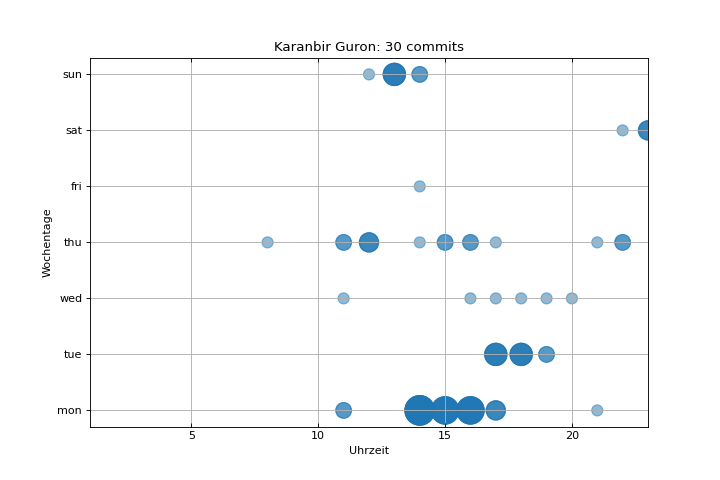
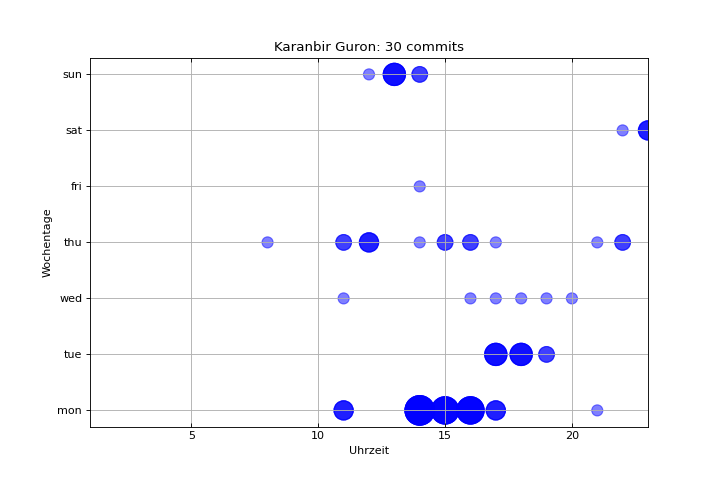
UE03: Plot abgenommen

diff --git a/UE03_Plot/Main.py b/UE03_Plot/Main.py
@@ -1,7 +1,6 @@
-import matplotlib.pyplot as plt
-import numpy
 import math
 
+import matplotlib.pyplot as plt
 import numpy as np
 
 CNT = 1024
@@ -12,6 +11,10 @@ C = [math.cos(x) for x in X]
 S = [math.sin(x) for x in X]
 
 def plot():
+    """
+    Drawing PI Plot
+    :return: plot
+    """
     plt.figure(figsize=(10,6), dpi=80)
     plt.xlim(min(X) * 1.1, max(X) * 1.1)
     plt.ylim(min(C) * 1.1, max(C) * 1.1)
@@ -21,7 +24,7 @@ def plot():
                [r'$-1$', r'$0$', r'$+1$'])
 
     # Aufgabe 1 Linienart und Farbe
-    plt.plot(X,C, color="brown", linewidth=2.5, linestyle='-.', label="cosine")
+    plt.plot(X,C, color="gold", linewidth=2.5, linestyle='-.', label="cosine")
     plt.plot(X,S, color="green", linewidth=2.5, linestyle='-.', label="sine")
 
 
@@ -60,6 +63,21 @@ def plot():
                  xytext=(+10, +50), textcoords='offset points', fontsize=16,
                  arrowprops=dict(arrowstyle="->", connectionstyle="arc3,rad=.2"))
 
+    t_34m = math.radians(-45)
+    plt.plot([t_34m, t_34m], [0, math.cos(t_34m)], color='red', linewidth=2.5, linestyle="--")
+    plt.scatter([t_34m, ], [math.cos(t_34m), ], 50, color='red')
+    plt.annotate(r'$\sin(45°)=\frac{\sqrt{2}}{2}$',
+                 xy=(t_34m, math.sin(t_34m)), xycoords='data',
+                 xytext=(+10, +50), textcoords='offset points', fontsize=16,
+                 arrowprops=dict(arrowstyle="->", connectionstyle="arc3,rad=.2"))
+
+    plt.plot([t_34m, t_34m], [0, math.sin(t_34m)], color='red', linewidth=2.5, linestyle="--")
+    plt.scatter([t_34m, ], [math.cos(t_34m), ], 50, color='red')
+    plt.annotate(r'$\sin(45°)=\frac{\sqrt{2}}{2}$',
+                 xy=(t_34m, math.sin(t_34m)), xycoords='data',
+                 xytext=(+10, +50), textcoords='offset points', fontsize=16,
+                 arrowprops=dict(arrowstyle="->", connectionstyle="arc3,rad=.2"))
+
     for label in ax.get_xticklabels() + ax.get_yticklabels():
         label.set_fontsize(16)
     label.set_bbox(dict(facecolor='white', edgecolor='None', alpha=0.65))
@@ -72,6 +90,7 @@ def plot():
     ax.quiver(np.pi + 0.25, 0, 0.2, 0, angles='xy', scale_units='xy', scale=1, color="black", clip_on=False)
     ax.quiver(0, 1.0, 0, 0.12, angles='xy', scale_units='xy', scale=1, color="black", clip_on=False)
 
+    plt.savefig("pi.png", dpi=80)
     plt.show()
 
 if __name__ == "__main__":

diff --git a/UE03_Plot/statistics.py b/UE03_Plot/statistics.py
@@ -7,29 +7,39 @@ from matplotlib import ticker
 
 
 def parse_gitlogs():
+    """
+    Parsing gitlogs
+    :return: commit days
+    """
     cmd = ['git', 'log', '--pretty=format:%aI']
     process = subprocess.Popen(cmd, stdout=subprocess.PIPE, stderr=subprocess.PIPE, text=True)
 
     stdout, stderr = process.communicate()
-    print(stdout)
 
     commit_dates = [dt.parse(date_str) for date_str in stdout.strip().split('\n')]
+    # Alle Commit Dates in datetime format
+    print(commit_dates)
     return commit_dates
 
 
 def drawplot(commit_dates):
-    days = [commit_date.weekday() +1 for commit_date in commit_dates]
+    """
+    Drawing plot with given commits
+    :param commit_dates: all given commit dates
+    :return: plot
+    """
+    days = [commit_date.weekday() + 1 for commit_date in commit_dates]
     hours = [commit_date.hour for commit_date in commit_dates]
 
-    # Angenommen, commit_dates ist eine Liste von datetime-Objekten der Commits
+    # commit_dates ist eine Liste von datetime-Objekten der Commits
     commit_times = [(d.weekday(), d.hour) for d in commit_dates]
     commit_count = Counter(commit_times)
 
-    # Erstellen Sie eine Liste von Größen für die Scatter-Punkte, basierend auf der Anzahl der Commits
+    # Liste von Größen für die Scatter-Punkte, basierend auf der Anzahl der Commits
     sizes = [commit_count[(day, hour)] * 100 for day, hour in commit_times]
 
     plt.figure(figsize=(9, 6), dpi=80)
-    plt.scatter(hours, days, sizes=sizes, alpha=0.5)
+    plt.scatter(hours, days, sizes=sizes, alpha=0.5, color='blue')
 
     ax = plt.gca()
     ax.xaxis.set_major_locator(ticker.MultipleLocator(5))
@@ -47,7 +57,6 @@ def drawplot(commit_dates):
 
     plt.savefig("git_logs.png", dpi=80)
     plt.show()
-
 
 
 if __name__ == "__main__":
